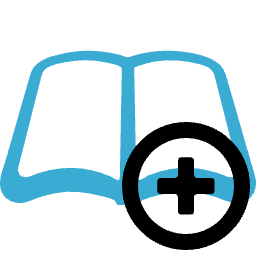
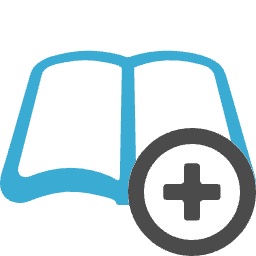
写真の項目追加+画像変更

Changed region(s): [[0.4688, 0.4688, 1.0, 1.0]]

diff --git a/cycled_project/diary/templates/diary/diary_new.html b/cycled_project/diary/templates/diary/diary_new.html
@@ -14,35 +14,34 @@
 {% block content %}
     <div class="container">
         <div class="row"> 
-            <h2>日記 新規作成</h2>
+            <h2 class="mb-3">日記 新規作成</h2>
             <div class="col">
                 <button class="button_inverse" onclick="location.href='{% url "diary:address_diary_new" %}'">サイクリング先を選択する</button>
             </div>
             <form method="post">
                 {% csrf_token %}
                 <div class="row my-3">
-                    <div class="row my-3">
-                        <div class="col">
-                            <label for="{{ form.date.id_for_label }}">{{ form.date.label }}</label>
-                                {{ form.date }}
-                                {% if form.date.errors %}
-                                    <div class="error">{{ form.date.errors }}</div>
-                                {% endif %}
-                        </div>
-                    </div>
-                    <div class="row my-3">
-                        <div class="col">
-                        <label for="{{ form.comment.id_for_label }}">{{ form.comment.label }}</label>
-                            {{ form.comment }}
-                            {% if form.comment.errors %}
-                                <div class="error">{{ form.comment.errors }}</div>
+                    <div class="col">
+                        <label for="{{ form.date.id_for_label }}">{{ form.date.label }}</label>
+                            {{ form.date }}
+                            {% if form.date.errors %}
+                                <div class="error">{{ form.date.errors }}</div>
                             {% endif %}
-                        </div>
                     </div>
-                    <div class="row">
-                        <div class="col">
-                            <button type="submit" class="btn btn-primary">作成</button>
-                        </div>
+                </div>
+                
+                <div class="row my-3">
+                    <div class="col">
+                    <label for="{{ form.comment.id_for_label }}">{{ form.comment.label }}</label>
+                        {{ form.comment }}
+                        {% if form.comment.errors %}
+                            <div class="error">{{ form.comment.errors }}</div>
+                        {% endif %}
+                    </div>
+                </div>
+                <div class="row">
+                    <div class="col">
+                        <button type="submit" class="btn btn-primary">作成</button>
                     </div>
                 </div>
             </form>

diff --git a/cycled_project/diary/templates/diary/diary_new_picture.html b/cycled_project/diary/templates/diary/diary_new_picture.html
@@ -1,0 +1,58 @@
+{% extends "diary/base.html" %}
+{% load django_bootstrap5 %}
+{% load static %}
+{% load widget_tweaks %}
+
+{% block title %}
+    しんきさくせい
+{% endblock title %}
+
+{% block extra_css %}
+
+{% endblock extra_css %}
+
+{% block content %}
+    <div class="container">
+        <div class="row"> 
+            <h2>日記 新規作成</h2>
+            <div class="col">
+                <button class="button_inverse" onclick="location.href='{% url "diary:address_diary_new" %}'">サイクリング先を選択する</button>
+            </div>
+            <form method="post">
+                {% csrf_token %}
+                <div class="row my-3">
+                    <div class="row my-3">
+                        <div class="col">
+                            <label for="{{ form.date.id_for_label }}">{{ form.date.label }}</label>
+                                {{ form.date }}
+                                {% if form.date.errors %}
+                                    <div class="error">{{ form.date.errors }}</div>
+                                {% endif %}
+                        </div>
+                    </div>
+                    <div class="row my-3">
+                        <div class="col">
+                        <label for="{{ form.comment.id_for_label }}">{{ form.comment.label }}</label>
+                            {{ form.comment }}
+                            {% if form.comment.errors %}
+                                <div class="error">{{ form.comment.errors }}</div>
+                            {% endif %}
+                        </div>
+                    </div>
+                    <div class="row">
+                        <div class="col">
+                            <button type="submit" class="btn btn-primary">作成</button>
+                        </div>
+                    </div>
+                </div>
+            </form>
+        </div>
+    </div>
+{% endblock content %}
+
+{% block extra_js %}
+    <script src="{% static 'diary/js/getCookie.js' %}"></script>
+    <script src="{% static 'diary/js/loading_overlay.js' %}"></script>
+    
+    
+{% endblock %}

diff --git a/cycled_project/diary/templates/diary/diary.html b/cycled_project/diary/templates/diary/diary.html
@@ -16,9 +16,18 @@
             <h2>日記メニュー</h2>
 
             <div class="my-md-3 my-2">
-                <button class="button_inverse" id="ico_new" onclick="location.href='{% url "diary:diary_new" %}'">
+                <button class="button_inverse" id="ico_new_picture" onclick="location.href='{% url "diary:diary_new" %}'">
                 {% comment %} <button class="button_inverse" id="ico_new" onclick="location.href='#'"> {% endcomment %}
-                    新規作成
+                    写真あり
+                </button>
+                <div>
+                    ※写真ありで書く場合，日時や場所は自動で入力されます
+                </div>
+            </div>
+
+            <div class="my-md-3 my-2">
+                <button class="button_inverse" id="ico_new" onclick="location.href='{% url "diary:diary_new" %}'">
+                    写真なし
                 </button>
             </div>
 

diff --git a/cycled_project/diary/templates/diary/base.html b/cycled_project/diary/templates/diary/base.html
@@ -78,7 +78,7 @@
                       </a>
                       {% else %}
                       <a type="button" class="dropdown-toggle d-flex align-items-center hidden-arrow" href="#" aria-haspopup="true" aria-expanded="false" data-bs-toggle="dropdown" data-bs-auto-close="outside">
-                        <img src="{% static 'diary/img/user_icon_default.jpg' %}" class="rounded-circle" width="50" height="50" alt="icon" loading="lazy">
+                        <img src="{% static 'diary/img/user_icon_default.png' %}" class="rounded-circle" width="50" height="50" alt="icon" loading="lazy">
                       </a>
                       {% endif %}
                       

diff --git a/cycled_project/diary/static/diary/css/diary.css b/cycled_project/diary/static/diary/css/diary.css
@@ -17,6 +17,12 @@
 #ico_new:hover::before {
   background-image: url("../img/diary_new2.png"); /* ここに画像のURLを指定 */
 }
+#ico_new_picture::before {
+  background-image: url("../img/diary_new_picture1.png"); /* ここに画像のURLを指定 */
+}
+#ico_new_picture:hover::before {
+  background-image: url("../img/diary_new_picture2.png"); /* ここに画像のURLを指定 */
+}
 #ico_edit::before {
   background-image: url("../img/diary_edit1.png"); /* ここに画像のURLを指定 */
 }

diff --git a/cycled_project/diary/forms.py b/cycled_project/diary/forms.py
@@ -4,6 +4,7 @@ from django.contrib.auth.hashers import make_password,check_password
 from django import forms
 from django.forms.renderers import BaseRenderer
 from django.forms.utils import ErrorList
+from django.forms.models import inlineformset_factory
 
 from diary.models import *
 
@@ -112,3 +113,14 @@ class DiaryNewForm(forms.ModelForm):
             "date": "",
             "comment": "",
         }
+        widgets = {
+            "date": forms.DateInput(attrs={"type": "date"}),
+        }
+LocationAndDiaryFormSet = inlineformset_factory(
+    parent_model = Diary,
+    model = Location,
+    form = LocationForm,
+    extra=1,
+    min_num=1,
+    validate_min=True,
+)

diff --git a/cycled_project/diary/views/subs.py b/cycled_project/diary/views/subs.py
@@ -38,7 +38,6 @@ def ajax_location2weather(request):
             'latlon': latlon,
         }
         request.session['weather_data'] = response
-        print(weather['hourly'][0])
         return JsonResponse(response)
     else:
         return JsonResponse({'error': 'Invalid request method.'}, status=400)

diff --git a/cycled_project/diary/views/diary.py b/cycled_project/diary/views/diary.py
@@ -3,6 +3,8 @@ from django.views import generic
 from django.contrib.auth.mixins import LoginRequiredMixin
 from django.urls import reverse_lazy
 from django.shortcuts import render, redirect
+from django.db import transaction
+
 from ..forms import *
 
 """______Diary関係______"""
